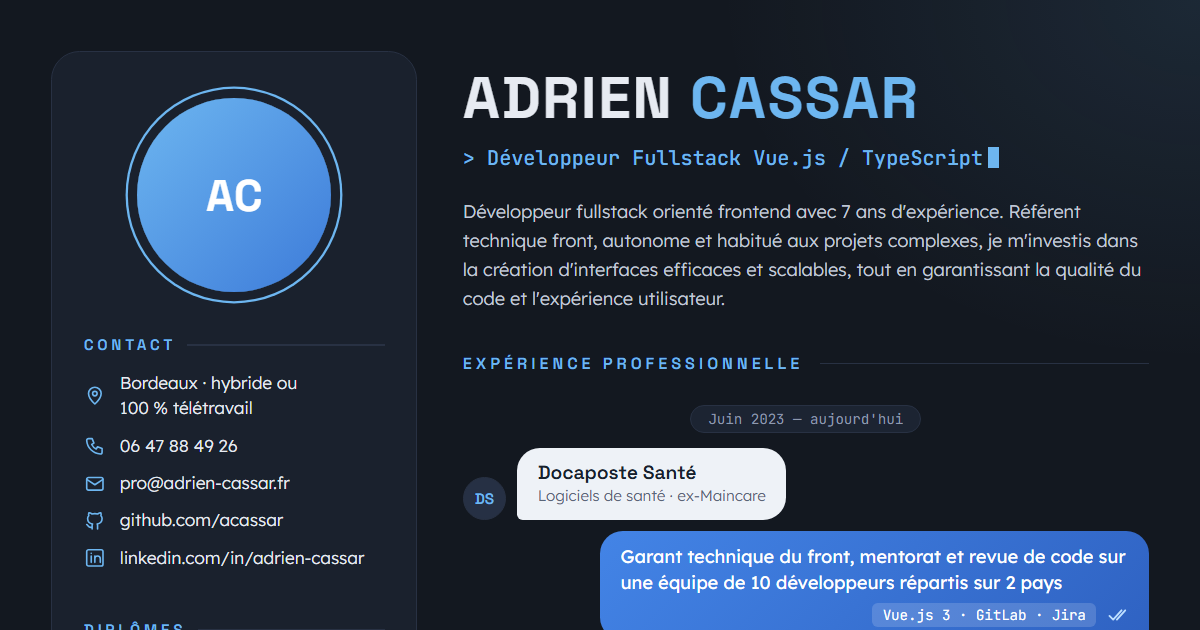
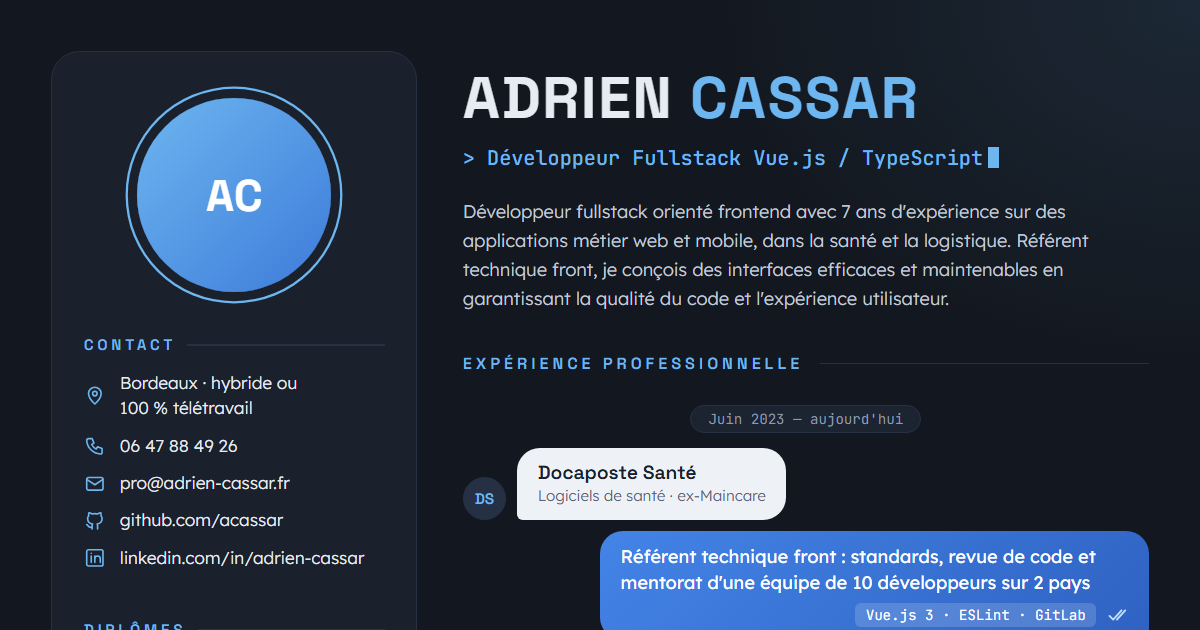
Detail missions with concrete scope and tooling
- Rewrite missions with scope and figures (team of 10, 1M items, client app rewrite)
- Clarify Groupe Save apps (internal back-office and technicians mobile app)
- Add TypeScript, Vitest, ESLint, Azure DevOps and Bitrise to stacks
- Make summary more specific (business web and mobile apps, health and logistics)
- Regroup tool skills to keep the CV on one page

Changed region(s): [[0.37, 0.3016, 0.9558, 0.4825], [0.5242, 0.8746, 0.9558, 0.9952]]

diff --git a/cv-data.js b/cv-data.js
@@ -5,7 +5,7 @@ window.CV = {
   photo: "photo.jpg",
   careerStart: "2019-07",
   summary:
-    "Développeur fullstack orienté frontend avec {years} ans d'expérience. Référent technique front, autonome et habitué aux projets complexes, je m'investis dans la création d'interfaces efficaces et scalables, tout en garantissant la qualité du code et l'expérience utilisateur.",
+    "Développeur fullstack orienté frontend avec {years} ans d'expérience sur des applications métier web et mobile, dans la santé et la logistique. Référent technique front, je conçois des interfaces efficaces et maintenables en garantissant la qualité du code et l'expérience utilisateur.",
 
   contact: [
     { icon: "pin", label: "Bordeaux · hybride ou 100 % télétravail" },
@@ -59,12 +59,12 @@ window.CV = {
     {
       group: "Outils",
       items: [
-        { label: "Git · GitHub" },
+        { label: "Git · GitLab · GitHub" },
         { label: "IA générative (Claude Code)" },
-        { label: "CI/CD" },
-        { label: "SQL · NoSQL" },
-        { label: "Docker" },
-        { label: "Figma" },
+        { label: "Tests · Vitest" },
+        { label: "CI/CD · Azure DevOps · Bitrise" },
+        { label: "SQL · NoSQL · Docker" },
+        { label: "Jira · Figma" },
       ],
     },
   ],
@@ -79,12 +79,12 @@ window.CV = {
       detail: "Logiciels de santé · ex-Maincare",
       missions: [
         {
-          stack: "Vue.js 3 · GitLab · Jira",
-          text: "Garant technique du front, mentorat et revue de code sur une équipe de 10 développeurs répartis sur 2 pays",
+          stack: "Vue.js 3 · ESLint · GitLab",
+          text: "Référent technique front : standards, revue de code et mentorat d'une équipe de 10 développeurs sur 2 pays",
         },
         {
-          stack: "Vue.js 3",
-          text: "Développement d'une application web de gestion administrative du patient",
+          stack: "Vue.js 3 · TypeScript · Vitest",
+          text: "Refonte d'un client lourd en application web, démarrée de zéro : dossier patient, couverture sociale, facturation",
         },
       ],
     },
@@ -95,11 +95,11 @@ window.CV = {
       missions: [
         {
           stack: "React · .NET",
-          text: "Développement et design d'un portail web de gestion",
+          text: "Développement et design de l'app web de gestion interne du siège : installations, clients, stocks",
         },
         {
           stack: "React Native",
-          text: "Reprise d'une application mobile opérationnelle utilisée par les techniciens",
+          text: "Reprise de l'app mobile des techniciens qui interviennent sur les installations anti-incendie",
         },
       ],
     },
@@ -109,12 +109,12 @@ window.CV = {
       detail: "Location de matériel logistique",
       missions: [
         {
-          stack: "Flutter",
-          text: "Développement d'une app mobile de suivi du cycle de vie des produits logistiques",
+          stack: "Flutter · Bitrise",
+          text: "App mobile logistique internationale créée de A à Z : scan Zebra, hors-ligne, 1 million d'articles",
         },
         {
-          stack: "Vue.js · Node.js",
-          text: "Évolutions du portail web de suivi du cycle de vie des produits",
+          stack: "Vue.js · Node.js · Azure DevOps",
+          text: "Module web de fin de cycle produit : planning des collectes, relances e-mail automatiques, statistiques",
         },
       ],
     },
